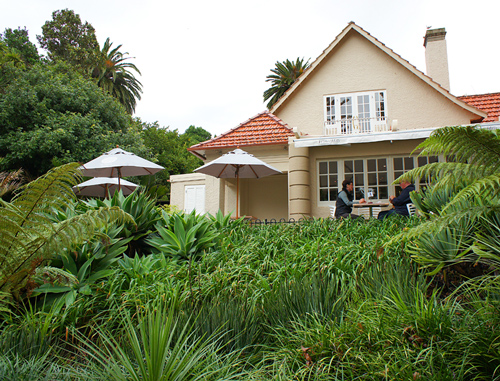
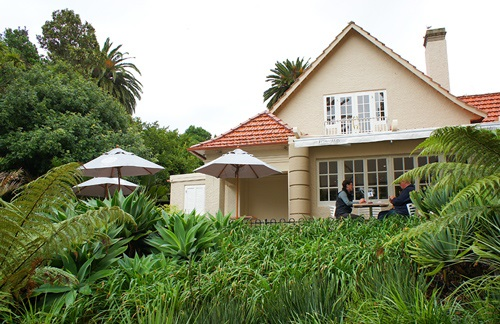
Fix image sizes by modifying underlying images instead...

diff --git a/venue.md b/venue.md
@@ -10,5 +10,6 @@ The conference will be held at the Auckland University of Technology's City Camp
 
 The dinner will be held at the beautiful Wintergarden Pavillion in the Auckland Domain.
 
-| <img src="/assets/images/wintergarden_01.jpg" style="height:163px;width:313px"> | <img src="/assets/images/wintergarden_03.jpg" style="height:163px;width:313px"> |
-| <img src="/assets/images/wintergarden_02.jpg" style="height:163px;width:313px"> | <img src="/assets/images/wintergarden_04.jpg" style="height:163px;width:313px"> |
+| <img src="/assets/images/wintergarden_01.jpg"> | <img src="/assets/images/wintergarden_02.jpg"> |
+| <img src="/assets/images/wintergarden_03.jpg"> | <img src="/assets/images/wintergarden_04.jpg"> |
+| <img src="/assets/images/wintergarden_05.jpg"> | <img src="/assets/images/wintergarden_06.jpg"> |
